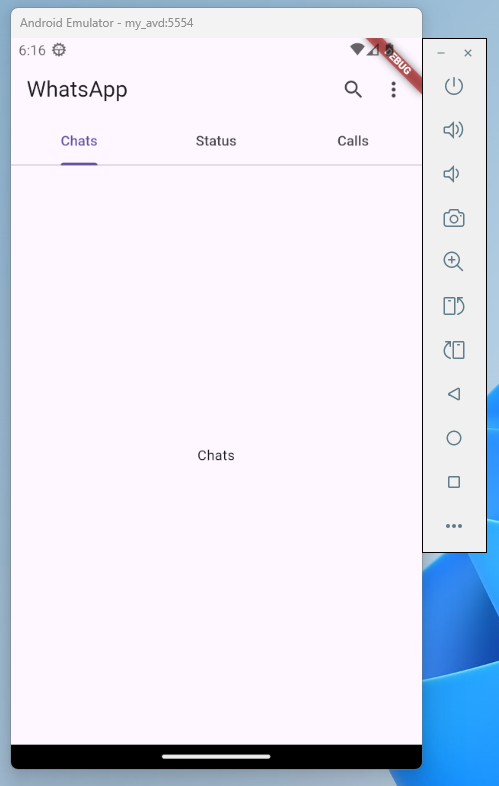
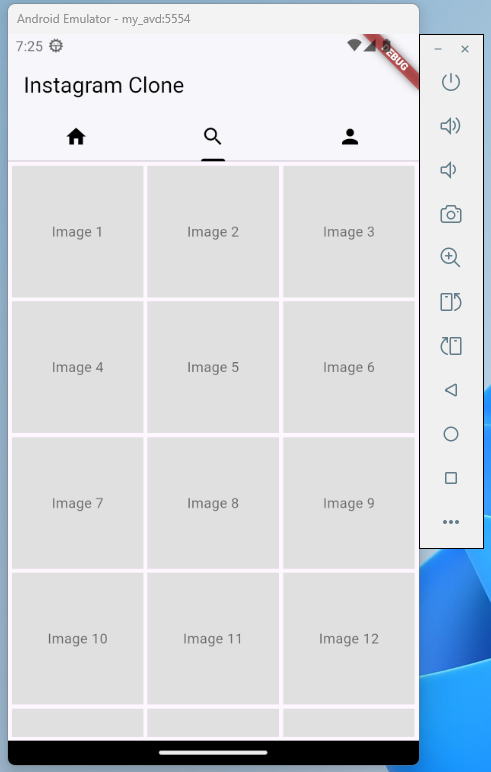
UPDATE: instagram layout pertemuan05

diff --git a/lib/main.dart b/lib/main.dart
@@ -1,56 +1,94 @@
 import 'package:flutter/material.dart';
 
-void main() {
-  runApp(const WhatsAppClone());
-}
+void main() => runApp(const InstagramSearchClone());
 
-class WhatsAppClone extends StatelessWidget {
-  const WhatsAppClone({super.key});
+class InstagramSearchClone extends StatelessWidget {
+  const InstagramSearchClone({super.key});
 
   @override
   Widget build(BuildContext context) {
     return MaterialApp(
       theme: ThemeData(
-        primaryColor: const Color(0xFF075E54),
-        // accentColor: const Color(0xFF25D366),
+        primaryColor: Colors.white,
+        // accentColor: Colors.black,
       ),
-      home: const WhatsAppHome(),
+      home: const HomeScreen(),
     );
   }
 }
 
-class WhatsAppHome extends StatelessWidget {
-  const WhatsAppHome({super.key});
+class HomeScreen extends StatefulWidget {
+  const HomeScreen({super.key});
+
+  @override
+  _HomeScreenState createState() => _HomeScreenState();
+}
+
+class _HomeScreenState extends State<HomeScreen>
+    with SingleTickerProviderStateMixin {
+  late TabController _tabController;
+
+  @override
+  void initState() {
+    super.initState();
+    _tabController = TabController(length: 3, vsync: this);
+  }
 
   @override
   Widget build(BuildContext context) {
-    return DefaultTabController(
-      length: 3,
-      child: Scaffold(
-        appBar: AppBar(
-          title: const Text("WhatsApp"),
-          bottom: const TabBar(
-            tabs: [
-              Tab(text: "Chats"),
-              Tab(text: "Status"),
-              Tab(text: "Calls"),
-            ],
-          ),
-          actions: const [
-            Icon(Icons.search),
-            Padding(
-              padding: EdgeInsets.symmetric(horizontal: 16),
-              child: Icon(Icons.more_vert),
+    return Scaffold(
+      appBar: AppBar(
+        title: const Text('Instagram Clone',
+            style: TextStyle(color: Colors.black)),
+        backgroundColor: Colors.white,
+        elevation: 1,
+        bottom: TabBar(
+          controller: _tabController,
+          indicatorColor: Colors.black,
+          tabs: const [
+            Tab(icon: Icon(Icons.home, color: Colors.black)),
+            Tab(icon: Icon(Icons.search, color: Colors.black)),
+            Tab(icon: Icon(Icons.person, color: Colors.black)),
+          ],
+        ),
+      ),
+      body: TabBarView(
+        controller: _tabController,
+        children: const [
+          Center(child: Text('Home Page')),
+          SearchPage(),
+          Center(child: Text('Profile Page')),
+        ],
+      ),
+    );
+  }
+}
+
+class SearchPage extends StatelessWidget {
+  const SearchPage({super.key});
+
+  @override
+  Widget build(BuildContext context) {
+    return Padding(
+      padding: const EdgeInsets.all(4.0),
+      child: GridView.builder(
+        gridDelegate: const SliverGridDelegateWithFixedCrossAxisCount(
+          crossAxisCount: 3, // Jumlah kolom
+          crossAxisSpacing: 4, // Jarak horizontal antar gambar
+          mainAxisSpacing: 4, // Jarak vertikal antar gambar
+        ),
+        itemCount: 30, // Jumlah gambar
+        itemBuilder: (context, index) {
+          return Container(
+            color: Colors.grey[300],
+            child: Center(
+              child: Text(
+                'Image ${index + 1}',
+                style: const TextStyle(color: Colors.black54),
+              ),
             ),
-          ],
-        ),
-        body: const TabBarView(
-          children: [
-            Center(child: Text("Chats")),
-            Center(child: Text("Status")),
-            Center(child: Text("Calls")),
-          ],
-        ),
+          );
+        },
       ),
     );
   }

diff --git a/README.md b/README.md
@@ -1,7 +1,7 @@
 # Identitas Diri
-NAMA: Ni Putu Desy Aristya Dewi
-NIM : 220040121
+- NAMA: Ni Putu Desy Aristya Dewi
+- NIM : 220040121
 
 # Screenshot
 Berikut adalah tampilan halaman utama aplikasi:
-![WhatsApp Layout](images/layout.png)
+![Instagram Layout](images/layout.png)
